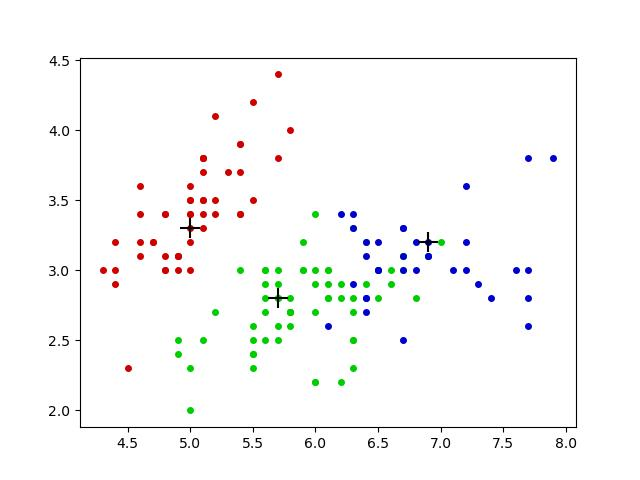
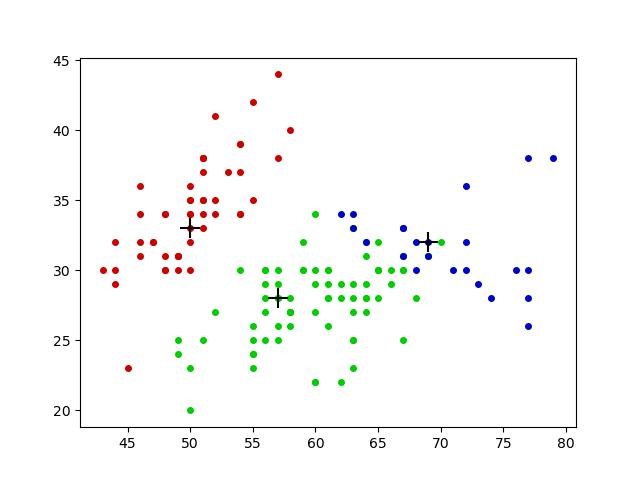
save figure

diff --git a/five_demo/hierarchical_clustering/hier_cluster.py b/five_demo/hierarchical_clustering/hier_cluster.py
@@ -5,7 +5,7 @@ import numpy as np
 import sklearn
 from sklearn.datasets import load_iris
 
-
+import matplotlib.pyplot as plt
 def euler_distance(point1: np.ndarray, point2: list) -> float:
     """
     计算两点之间的欧式距离，支持多维
@@ -104,6 +104,15 @@ if __name__ == '__main__':
     end_time = time.time()
     execution_time = end_time - start_time
     print(f"程序执行时间：{execution_time}秒")
+    x = []
+    y = []
+    for data in iris.data:
+        x.append(data[0])
+        y.append(data[1])
+    plt.figure(figsize=(8, 6), dpi=80)
+    plt.scatter(x, y, c=my.labels, marker='o')
+    plt.savefig("result_fig")
+    plt.show()
 
     # data = [[16.9,0],[38.5,0],[39.5,0],[80.8,0],[82,0],[834.6,0],[116.1,0]]
     # my = Hierarchical(4)

diff --git a/five_demo/hierarchical_clustering/ckks_hier_cluster.py b/five_demo/hierarchical_clustering/ckks_hier_cluster.py
@@ -5,7 +5,7 @@ import numpy as np
 import sklearn
 from seal import *
 from sklearn.datasets import load_iris
-
+import matplotlib.pyplot as plt
 
 def euler_distance(point1: np.ndarray, point2: list) -> float:
     """
@@ -145,7 +145,15 @@ if __name__ == '__main__':
     end_time = time.time()
     execution_time = end_time - start_time
     print(f"程序执行时间：{execution_time}秒")
-
+    x = []
+    y = []
+    for data in iris.data:
+        x.append(data[0])
+        y.append(data[1])
+    plt.figure(figsize=(8, 6), dpi=80)
+    plt.scatter(x, y, c=my.labels, marker='o')
+    plt.savefig("ckks_result_fig")
+    plt.show()
     # data = [[16.9,0],[38.5,0],[39.5,0],[80.8,0],[82,0],[834.6,0],[116.1,0]]
     # my = Hierarchical(4)
     # my.fit(data)

diff --git a/five_demo/optics/ckks_optics.py b/five_demo/optics/ckks_optics.py
@@ -152,5 +152,8 @@ end_time = time.time()
 execution_time = end_time - start_time
 print(f"程序执行时间：{execution_time}秒")
 labels=extract_dbscan(data,orders,reach_dists,3)
-plotReachability(reach_dists[orders],3)
-plotFeature(data,labels)
+plt.scatter(data[:,0],data[:,1],c=labels,marker='o')
+plt.title('optics(ckks) cluster')
+# 保存图表为PNG文件
+plt.savefig('ckks_optics.png')
+plt.show()

diff --git a/five_demo/optics/optics.py b/five_demo/optics/optics.py
@@ -106,4 +106,8 @@ execution_time = end_time - start_time
 print(f"程序执行时间：{execution_time}秒")
 labels=extract_dbscan(data,orders,reach_dists,3)
 plotReachability(reach_dists[orders],3)
-plotFeature(data,labels)
+plt.scatter(data[:,0],data[:,1],c=labels,marker='o')
+plt.title('optics cluster')
+# 保存图表为PNG文件
+plt.savefig('optics.png')
+plt.show()

diff --git a/five_demo/ap/ckks_ap.py b/five_demo/ap/ckks_ap.py
@@ -177,4 +177,7 @@ end_time = time.time()
 execution_time = end_time - start_time
 print(f"程序执行时间：{execution_time}秒")
 labels = extract_cluster(exemplars, similarity)
-plotFeature(data, labels)
+plt.scatter(data[:,0],data[:,1],c=labels,marker='o')
+# 保存图表为PNG文件
+plt.savefig('ckks_ap788.png')
+plt.show()

diff --git a/five_demo/ap/ap.py b/five_demo/ap/ap.py
@@ -110,4 +110,7 @@ end_time = time.time()
 execution_time = end_time - start_time
 print(f"程序执行时间：{execution_time}秒")
 labels = extract_cluster(exemplars,similarity)
-plotFeature(data, labels)
+plt.scatter(data[:,0],data[:,1],c=labels,marker='o')
+# 保存图表为PNG文件
+plt.savefig('ap788.png')
+plt.show()

diff --git a/five_demo/kmeans/kMeans.py b/five_demo/kmeans/kMeans.py
@@ -195,7 +195,7 @@ if __name__ == "__main__":
                 lines1.append(line[0:-1])
         lines = lines1[0:]
 
-        datas = np.array(lines).astype(np.float32)
+        datas = np.array(lines).astype(np.float32)*10
         # 计算距离矩阵
         start_time = time.time()
 

diff --git a/five_demo/kmeans/ckks_kmeans.py b/five_demo/kmeans/ckks_kmeans.py
@@ -201,7 +201,7 @@ def draw_decision(rho, deltas, name="0_decision.jpg"):
     plt.show()
 
 
-def draw_cluster(datas, labs, centers, dic_colors, name="0_cluster.jpg"):
+def draw_cluster(datas, labs, centers, dic_colors, name="1_cluster.jpg"):
     plt.cla()
     K = np.shape(centers)[0]
 

diff --git a/five_demo/dbscan/dbscan.py b/five_demo/dbscan/dbscan.py
@@ -47,7 +47,6 @@ def dist(t1, t2):
 # dis = dist((1,1),(3,4))
 # print(dis)
 
-
 # DBSCAN算法，参数为数据集，Eps为指定半径参数，MinPts为制定邻域密度阈值
 def dbscan(Data, Eps, MinPts):
     num = len(Data)  # 点的个数
